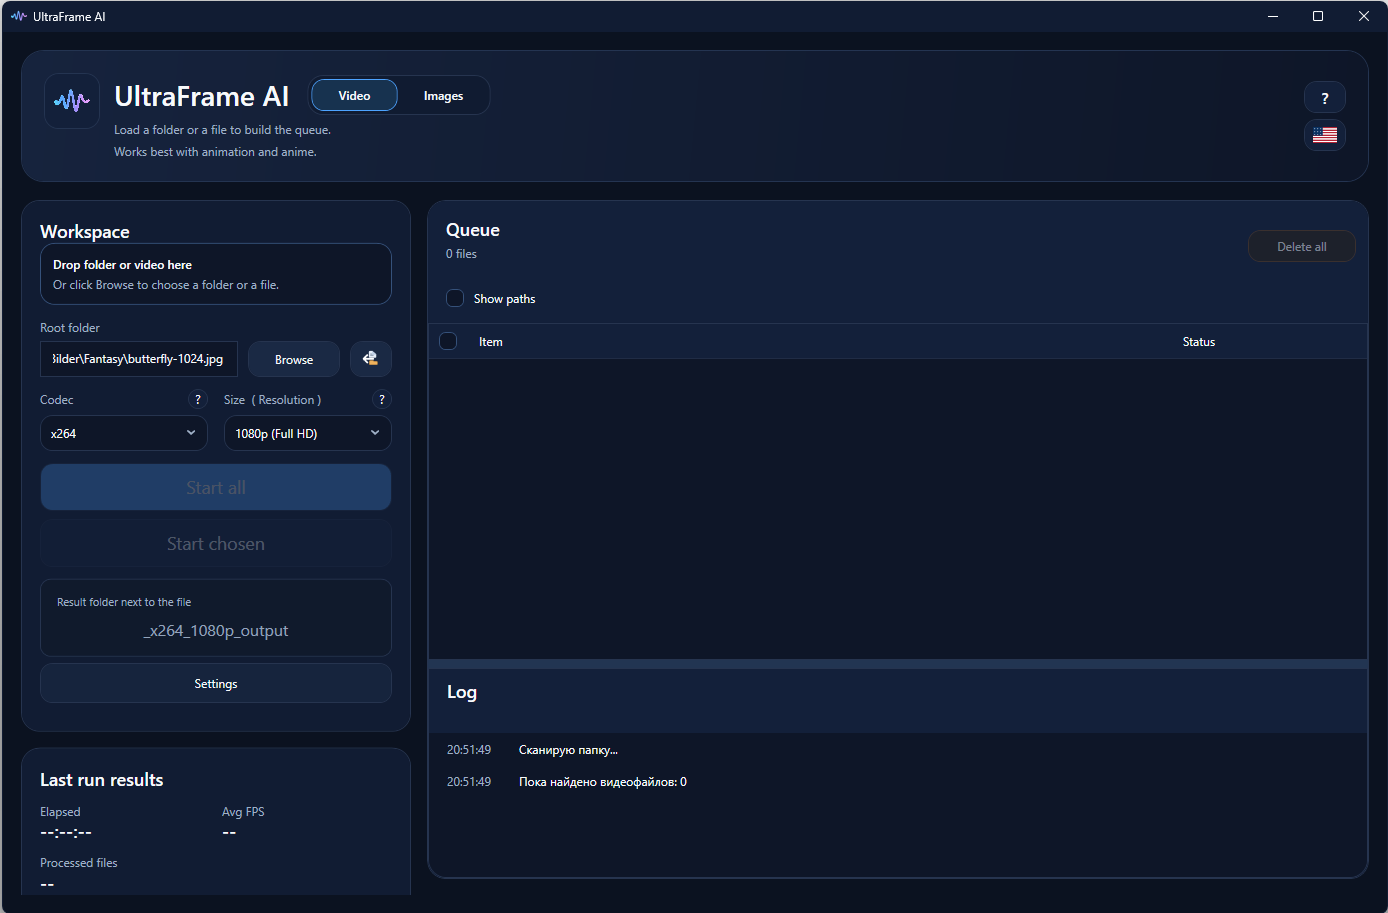
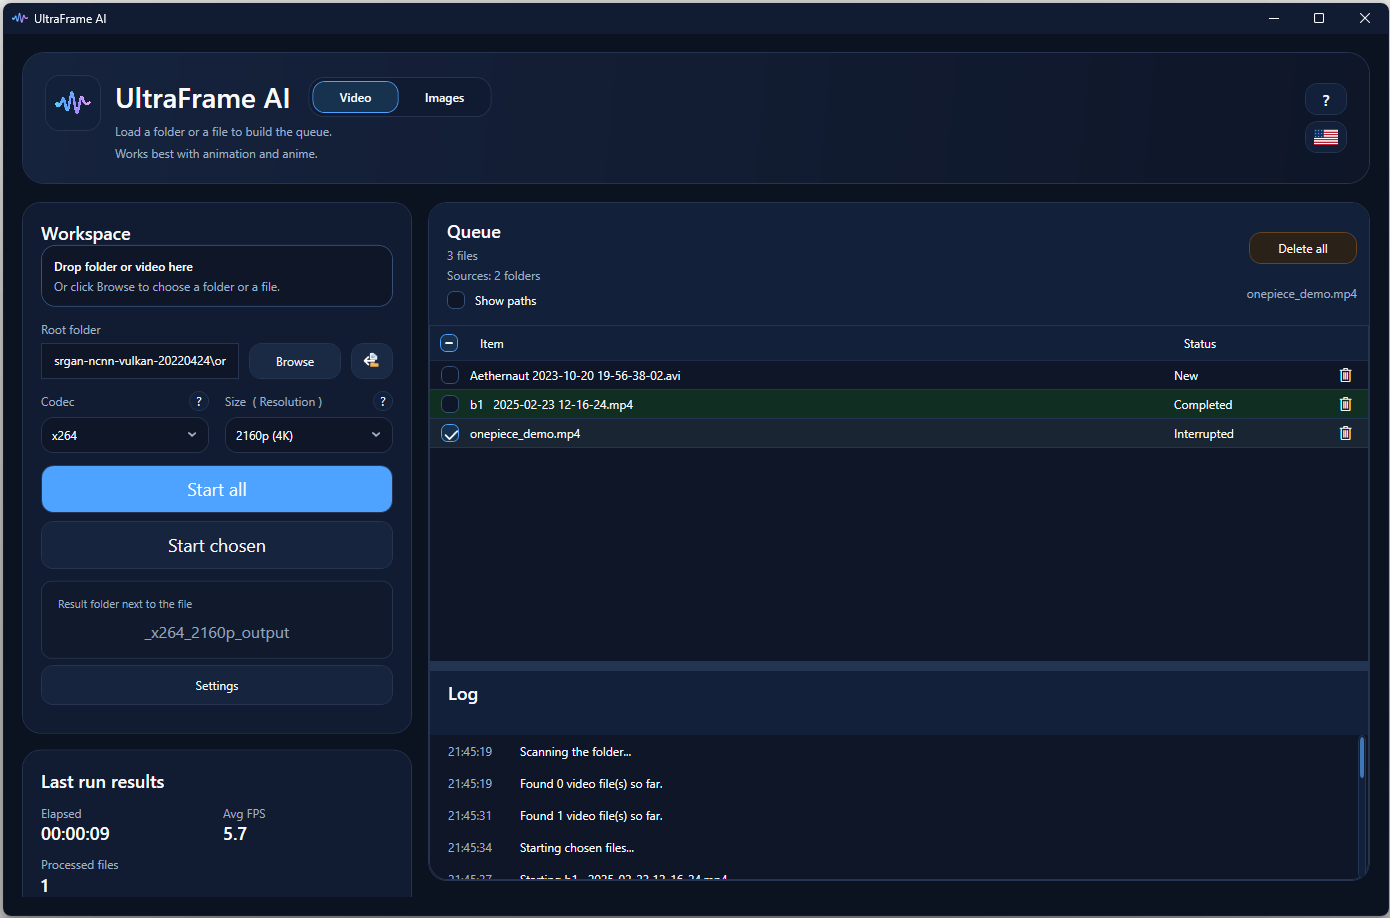
Prepare release 1.2.3

diff --git a/UltraFrameAI/MainViewModel.cs b/UltraFrameAI/MainViewModel.cs
@@ -217,7 +217,7 @@ public sealed class MainViewModel : INotifyPropertyChanged
     private string _configuredFfmpegDirectory = string.Empty;
     private QueueItemViewModel? _selectedItem;
     private UiLanguage _currentLanguage;
-    private readonly Dictionary<int, (int current, int total)> _sessionFrameProgress = new();
+    private readonly Dictionary<QueueItemViewModel, (int current, int total)> _sessionFrameProgress = new();
     private OutputConflictDecision? _sessionOutputDecision;
     private bool _isRenderMode;
     private bool _isRenderPaused;
@@ -2243,10 +2243,9 @@ public sealed class MainViewModel : INotifyPropertyChanged
     {
         PostToUi(() =>
         {
-            var index = progress.ItemIndex > 0 ? progress.ItemIndex - 1 : -1;
-            if (index >= 0 && index < Items.Count)
+            var item = GetRenderItemForProgress(progress.ItemIndex, progress.ItemTitle);
+            if (item is not null)
             {
-                var item = Items[index];
                 item.Stage = progress.Stage;
                 item.Progress = progress.Progress;
                 item.ProgressText = progress.ProgressText;
@@ -2539,13 +2538,10 @@ public sealed class MainViewModel : INotifyPropertyChanged
 
     private QueueItemViewModel? GetCurrentItem()
     {
-        if (_currentItemIndex > 0)
+        var currentRenderItem = GetRenderItemForProgress(_currentItemIndex, CurrentItemTitle);
+        if (currentRenderItem is not null)
         {
-            var byIndex = Items.FirstOrDefault(item => item.Index == _currentItemIndex);
-            if (byIndex is not null)
-            {
-                return byIndex;
-            }
+            return currentRenderItem;
         }
 
         if (string.IsNullOrWhiteSpace(CurrentItemTitle))
@@ -2556,9 +2552,38 @@ public sealed class MainViewModel : INotifyPropertyChanged
         return Items.FirstOrDefault(item => string.Equals(item.Title, CurrentItemTitle, StringComparison.OrdinalIgnoreCase));
     }
 
+    private QueueItemViewModel? GetRenderItemForProgress(int itemIndex, string itemTitle)
+    {
+        if (itemIndex <= 0 || CurrentRenderItems.Count == 0)
+        {
+            return null;
+        }
+
+        var byQueueIndex = CurrentRenderItems.FirstOrDefault(item =>
+            item.Index == itemIndex &&
+            (string.IsNullOrWhiteSpace(itemTitle) || string.Equals(item.Title, itemTitle, StringComparison.OrdinalIgnoreCase)));
+        if (byQueueIndex is not null)
+        {
+            return byQueueIndex;
+        }
+
+        var runIndex = itemIndex - 1;
+        if (runIndex >= 0 && runIndex < CurrentRenderItems.Count)
+        {
+            var byRunIndex = CurrentRenderItems[runIndex];
+            if (string.IsNullOrWhiteSpace(itemTitle) || string.Equals(byRunIndex.Title, itemTitle, StringComparison.OrdinalIgnoreCase))
+            {
+                return byRunIndex;
+            }
+        }
+
+        return null;
+    }
+
     private void TrackFrameProgress(PipelineProgress progress)
     {
-        if (progress.ItemIndex <= 0)
+        var item = GetRenderItemForProgress(progress.ItemIndex, progress.ItemTitle);
+        if (item is null)
         {
             return;
         }
@@ -2568,7 +2593,7 @@ public sealed class MainViewModel : INotifyPropertyChanged
             return;
         }
 
-        _sessionFrameProgress[progress.ItemIndex] = (current, total);
+        _sessionFrameProgress[item] = (current, total);
     }
 
     private static bool TryParseFrameProgress(string text, out int current, out int total)
@@ -2615,7 +2640,7 @@ public sealed class MainViewModel : INotifyPropertyChanged
                 var averageFpsText = "--";
                 if (TryParseDisplayedDuration(item.ElapsedText, out var itemElapsed)
                     && itemElapsed.TotalSeconds > 0
-                    && _sessionFrameProgress.TryGetValue(item.Index, out var frameProgress)
+                    && _sessionFrameProgress.TryGetValue(item, out var frameProgress)
                     && frameProgress.total > 0)
                 {
                     var fps = frameProgress.total / itemElapsed.TotalSeconds;